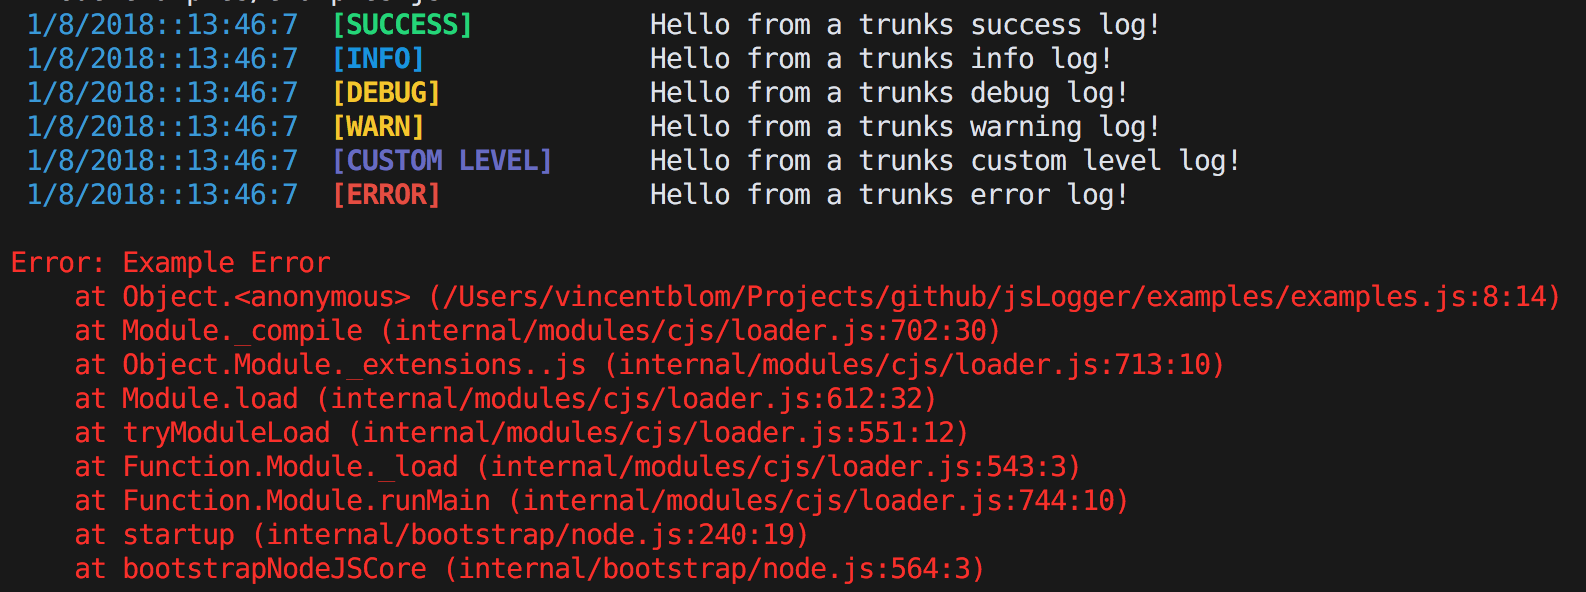
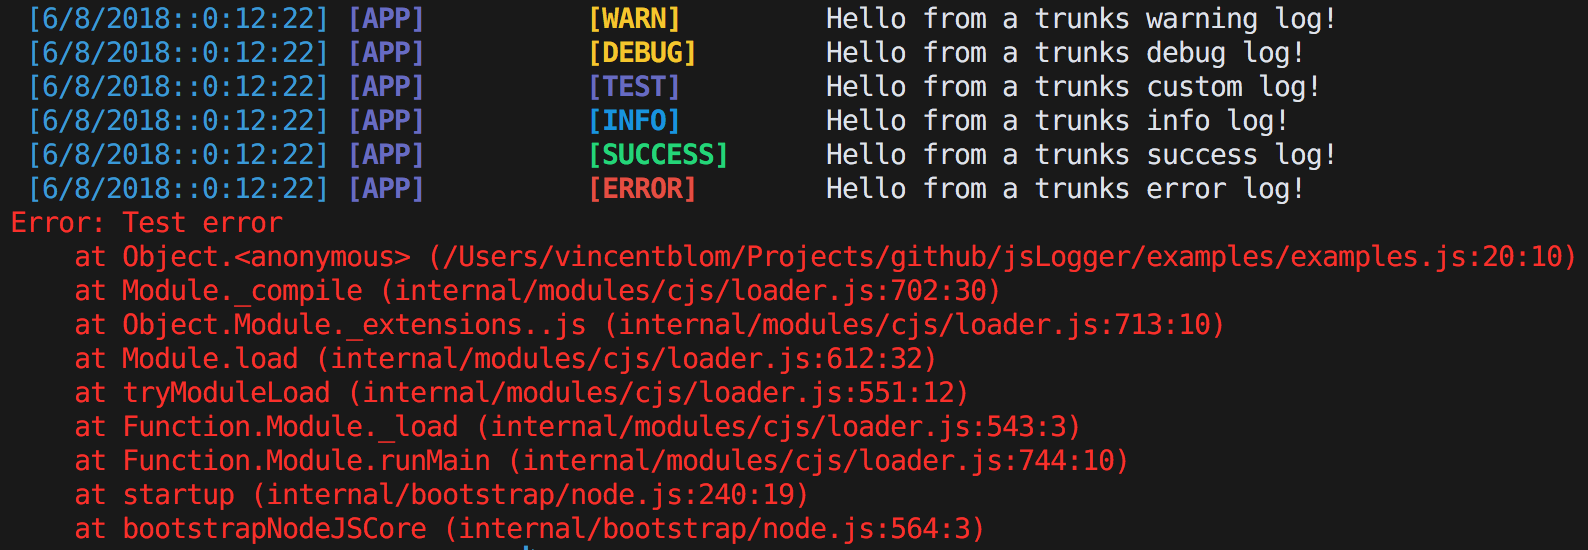
V2.0.0 :tada:
This release adds support for instancing trunks, as well as namespacing
those instances.

These changes are considered breaking as trunks cannot be called in the
same manner as previous versions, you must now new up an instance of
trunks.

Changed region(s): [[0.0, 0.0, 1.0, 1.0]]

diff --git a/trunks.js b/trunks.js
@@ -1,12 +1,12 @@
 const colors = {
   "reset": "\x1b[0m",
   "bold": "\x1b[1m",
-  "Red": "\x1b[31m",
-  "Green": "\x1b[32m",
-  "Yellow": "\x1b[33m",
-  "Blue": "\x1b[34m",
-  "Magenta": "\x1b[35m",
-  "Cyan": "\x1b[36m",
+  "RED": "\x1b[31m",
+  "GREEN": "\x1b[32m",
+  "YELLOW": "\x1b[33m",
+  "BLUE": "\x1b[34m",
+  "MAGENTA": "\x1b[35m",
+  "CYAN": "\x1b[36m",
 }
 let levels = ['PROD', 'DEBUG']
 
@@ -18,13 +18,15 @@ genTimestamp = () => {
   return '[' + timestamp + ']' + colors.reset
 }
 
-genPaddingString = (logLevel) => {
-  return " ".repeat(17 - logLevel.length) + colors.reset
+genPaddingString = (logLevel, pad) => {
+  return " ".repeat(pad - logLevel.length) + colors.reset
 }
 
 buildPrintString = (template, args) => {
+  //need to fix this check
   if (args.length != (template.match(/{}/g) || []).length) {
-    this.trunks.log('trunks-error', 'Replacement templates (open-close curly braces) must match number of provided arguments, error occurred on template: ' + template)
+    const me = new trunks('TRUNKS', 'red', 'DEBUG')
+    me.error(new Error('trunks replacement count mismatch on template: ' + template), 'Replacement templates (open-close curly braces) must match number of provided arguments')
     return null
   }
 
@@ -39,76 +41,103 @@ buildPrintString = (template, args) => {
   return template + colors.reset
 }
 
-exports.trunks = {
+buildNamespaceString = (namespace, color) => {
+  return color + '[' + namespace + ']' + colors.reset
+}
 
-  thresholdLevel: 'DEBUG',
+buildLevelString = (level, color) => {
+  return ` ${colors.bold + color}[${level.toUpperCase()}]${colors.reset}`
+}
 
-  log: (level, message, ...args) => {
-    let logMessage = buildPrintString(message, args)
-    if (logMessage) {
-      console.log(`${colors.Blue} ${genTimestamp()}` +
-        `${colors.bold + colors.Magenta} [${level.toUpperCase()}]${genPaddingString(level)}` +
-        ` ${logMessage}`)
-    }
-  },
+getNamespaceColor = (passedColor) => {
+  switch (passedColor.toUpperCase()) {
+    case 'YELLOW':
+      return colors.YELLOW
+    case 'RED':
+      return colors.RED
+    case 'BLUE':
+      return colors.BLUE
+    case 'GREEN':
+      return colors.GREEN
+    default:
+      return colors.MAGENTA
+  }
+}
 
-  warn: (message, ...args) => {
-    let logMessage = buildPrintString(message, args)
-    if (logMessage) {
-      console.log(`${colors.Blue} ${genTimestamp()}` +
-        `${colors.bold + colors.Yellow} [WARN]${genPaddingString('warn')}` +
-        ` ${logMessage}`)
-    }
-  },
+class trunks {
+  constructor(initNamespace = 'APP', namespaceColor = 'magenta', level = 'DEBUG') {
+    this.thresholdLevel = levels.includes(level.toUpperCase()) ? level.toUpperCase() : 'DEBUG'
+    this.namespace = initNamespace
+    this.namespaceColor = colors.bold + (colors[namespaceColor.toUpperCase()] == undefined ? colors.YELLOW : colors[namespaceColor.toUpperCase()])
+  }
 
-  info: (message, ...args) => {
-    let logMessage = buildPrintString(message, args)
-    if (logMessage) {
-      console.log(`${colors.Blue} ${genTimestamp()}` +
-        `${colors.bold + colors.Cyan} [INFO]${genPaddingString('info')}` +
-        ` ${logMessage}`)
-    }
-  },
-
-  success: (message, ...args) => {
-    let logMessage = buildPrintString(message, args)
-    if (logMessage) {
-      console.log(`${colors.Blue} ${genTimestamp()}` +
-        `${colors.bold + colors.Green} [SUCCESS]${genPaddingString('success')}` +
-        ` ${logMessage}`)
-    }
-  },
-
-  debug: (message, ...args) => {
-    if (this.trunks.thresholdLevel !== 'PROD') {
+  debug(message, ...args) {
+    if (this.thresholdLevel !== 'PROD') {
       let logMessage = buildPrintString(message, args)
       if (logMessage) {
-        console.log(`${colors.Blue} ${genTimestamp()}` +
-          `${colors.bold + colors.Yellow} [DEBUG]${genPaddingString('debug')}` +
+        console.log(`${colors.BLUE} ${genTimestamp()} ` +
+          `${buildNamespaceString(this.namespace, this.namespaceColor)}${genPaddingString(this.namespace, 10)}` +
+          `${buildLevelString('debug', colors.YELLOW)}${genPaddingString('debug', 10)}` +
           ` ${logMessage}`)
       }
     }
-  },
+  }
 
-  error: (err, message, ...args) => {
+  log(level, message, ...args) {
     let logMessage = buildPrintString(message, args)
     if (logMessage) {
+      console.log(`${colors.BLUE} ${genTimestamp()} ` +
+        `${buildNamespaceString(this.namespace, this.namespaceColor)}${genPaddingString(this.namespace, 10)}` +
+        `${buildLevelString(level, colors.MAGENTA)}${genPaddingString(level, 10)}` +
+        ` ${logMessage}`)
+    }
+  }
 
-      console.log(`${colors.Blue} ${genTimestamp()}` +
-        `${colors.bold + colors.Red} [ERROR]${genPaddingString('error')}` +
+  warn(message, ...args) {
+    // console.log('NAMESPACE ON WARN: ' + this.namespace)
+    // console.log()
+    let logMessage = buildPrintString(message, args)
+    if (logMessage) {
+      console.log(`${colors.BLUE} ${genTimestamp()} ` +
+        `${buildNamespaceString(this.namespace, this.namespaceColor)}${genPaddingString(this.namespace, 10)}` +
+        `${buildLevelString('warn', colors.YELLOW)}${genPaddingString('warn', 10)}` +
+        ` ${logMessage}`)
+    }
+  }
+
+  info(message, ...args) {
+    let logMessage = buildPrintString(message, args)
+    if (logMessage) {
+      console.log(`${colors.BLUE} ${genTimestamp()} ` +
+        `${buildNamespaceString(this.namespace, this.namespaceColor)}${genPaddingString(this.namespace, 10)}` +
+        `${buildLevelString('info', colors.CYAN)}${genPaddingString('info', 10)}` +
+        ` ${logMessage}`)
+    }
+  }
+
+  success(message, ...args) {
+    let logMessage = buildPrintString(message, args)
+    if (logMessage) {
+      console.log(`${colors.BLUE} ${genTimestamp()} ` +
+        `${buildNamespaceString(this.namespace, this.namespaceColor)}${genPaddingString(this.namespace, 10)}` +
+        `${buildLevelString('success', colors.GREEN)}${genPaddingString('success', 10)}` +
+        ` ${logMessage}`)
+    }
+  }
+
+  error(err, message, ...args) {
+    let logMessage = buildPrintString(message, args)
+    if (logMessage) {
+      console.log(`${colors.BLUE} ${genTimestamp()} ` +
+        `${buildNamespaceString(this.namespace, this.namespaceColor)}${genPaddingString(this.namespace, 10)}` +
+        `${buildLevelString('error', colors.RED)}${genPaddingString('error', 10)}` +
         ` ${logMessage}`)
 
-      if (err && this.trunks.thresholdLevel != 'PROD') {
-        console.log(colors.Red + err.stack + colors.reset)
+      if (err && this.thresholdLevel != 'PROD') {
+        console.log(colors.RED + err.stack + colors.reset)
       }
     }
-  },
-
-  setLevel: (newLevel) => {
-    if (!levels.includes(newLevel)) {
-      this.trunks.log('trunks-error', 'Desired Logging Level: {} is not supported', newLevel)
-      return
-    }
-    this.trunks.thresholdLevel = newLevel
-  },
+  }
 }
+
+module.exports = trunks;

diff --git a/examples/examples.js b/examples/examples.js
@@ -1,19 +1,20 @@
-const { trunks } = require('../trunks')
+const trunks = require('../trunks')
 const { second } = require('./second')
 
-trunks.success('Hello from a {} success {}!', 'trunks', 'log')
-trunks.info('Hello from a {} info {}!', 'trunks', 'log')
-trunks.debug('Hello from a {} debug {}!', 'trunks', 'log')
-trunks.warn('Hello from a {} warning {}!', 'trunks', 'log')
-trunks.log('custom level', 'Hello from a {} custom level {}!', 'trunks', 'log')
-trunks.info('Wrong number of matchers', 'test')
-trunks.error(new Error('Example Error'), 'Hello from a {} error {}!', 'trunks', 'log')
-trunks.info('Setting level to PROD')
-trunks.setLevel('PROD')
-trunks.error(new Error('this shouldnt display'), 'testing level stops stacktrace')
-trunks.info('Setting level to an unsupported type')
-trunks.setLevel('NOTREAL')
-second.test()
-trunks.setLevel('DEBUG')
-trunks.success('Testing logging of {}', {"name": "test"})
-trunks.info('Testing {} with different types, heres an {}', 'Logging', {"Object": "new obj"})
+const ex = new trunks()
+
+// ex.warn('Testing from main')
+// ex.debug('Testing debug')
+// ex.log('Test', 'Hello from a {}', 'test')
+// ex.info('testing info boi')
+// ex.success('Testing success')
+// ex.error(new Error('Test error'), 'Testing error message {} ', 'and a var')
+// ex.info('Trying to throw an error {}')
+// second.test()
+
+ex.warn('Hello from a trunks {} log!', 'warning')
+ex.debug('Hello from a trunks {} log!', 'debug')
+ex.log('test', 'Hello from a trunks {} log!', 'custom')
+ex.info('Hello from a trunks {} log!', 'info')
+ex.success('Hello from a trunks {} log!', 'success')
+ex.error(new Error('Test error'), 'Hello from a trunks {} log!', 'error')

diff --git a/examples/second.js b/examples/second.js
@@ -1,0 +1,10 @@
+const trunks = require('../trunks')
+
+exports.second = {
+  test: () => {
+    const logger = new trunks('secondjs', 'blue')
+
+    logger.warn('Testing from Second')
+    logger.error(new Error('Secondjs error'), 'testing level is set to instance')
+  }
+}

diff --git a/README.md b/README.md
@@ -3,6 +3,13 @@
 
 trunks is a simple logger for NodeJS projects. It writes to stdout. I wrote trunks because I couldn't find a lightweight logger that did the bare minimum.
 
+## Installation
+
+```bash
+npm install --save trunks-log
+```
+
+
 ## Usage
 
 trunks has 5 built in logging levels, `debug, info, success, warn, error` with predefined coloring in their output to make them easier to spot in a slew of logs.
@@ -13,7 +20,7 @@ trunks has 5 built in logging levels, `debug, info, success, warn, error` with p
  - `success` prints in green
  - `error` prints in red (including a passed error's stacktrace)
 
- You can also use the generic `trunks.log()` function to print a log with a custom tag in it, this will be printed in magenta.
+ You can also use the generic `log()` function to print a log with a custom tag in it, this will be printed in magenta.
 
  trunks supports variable replacement, meaning we can pass a template and a list of args to the functions to format the string.
 
@@ -31,27 +38,41 @@ trunks currently supports 2 logging levels, `PROD` and `DEBUG`.
 > Any more ideas for further support of logging levels is greatly appreciated
 
 - `DEBUG` will log everything
-- `PROD` will *NOT* log `debug`, or the stacktrace from `error` calls. (This is open to change)
+- `PROD` will *NOT* log `debug` level logs, or the stacktrace from `error` calls. (This is open to change)
 
 Setting the level to prod should not effect performance as the level check occurs prior to the building of the template.
 
-## Installation
+### Instances
 
-```bash
-npm install --save trunks-log
+As of V2.0.0 trunks now supports the ability to namespace an instance of trunks via the constructor. This will change the second section of output in the console. The constructor is as follows:
+
 ```
+trunks (
+  namespace = 'APP',
+  namespaceColor = 'magenta',
+  level = 'DEBUG'
+)
+```
+
+The trunks instance will default to a `DEBUG` logging level with the namespace `APP` and print the namespace in the color `MAGENTA` (as determined by your terminal).
+
+- `namespace` can be any string
+- `namespaceColor` must be one of: `['yellow', 'red', 'blue', 'green']`, with the default as `magenta`
+- `level` must be one of `['debug', 'prod']`
 
 ## Example
 
 ```js
-const { trunks } = require('../trunks')
+const trunks = require('../trunks')
 
-trunks.success('Hello from a {} success {}!', 'trunks', 'log')
-trunks.info('Hello from a {} info {}!', 'trunks', 'log')
-trunks.debug('Hello from a {} debug {}!', 'trunks', 'log')
-trunks.warn('Hello from a {} warning {}!', 'trunks', 'log')
-trunks.log('custom level', 'Hello from a {} custom level {}!', 'trunks', 'log')
-trunks.error(new Error('Example Error'), 'Hello from a {} error {}!', 'trunks', 'log')
+const ex = new trunks()
+
+ex.warn('Hello from a trunks {} log!', 'warning')
+ex.debug('Hello from a trunks {} log!', 'debug')
+ex.log('test', 'Hello from a trunks {} log!', 'custom')
+ex.info('Hello from a trunks {} log!', 'info')
+ex.success('Hello from a trunks {} log!', 'success')
+ex.error(new Error('Test error'), 'Hello from a trunks {} log!', 'error')
 ```
 
 Will produce:
@@ -62,6 +83,6 @@ Will produce:
 
 Please feel free to contribute to this project! I am open to any and all suggestions. Simply fork it and make a pr and we can discuss the changes there!
 
-### Notes
-
-trunks will pad your info line out to 17 total characters, this way all your logging info remains in a straight line for levels of differing lengths!
+## Roadmap
+In the future versions of trunks I would like to add:
+- support for use in browsers
